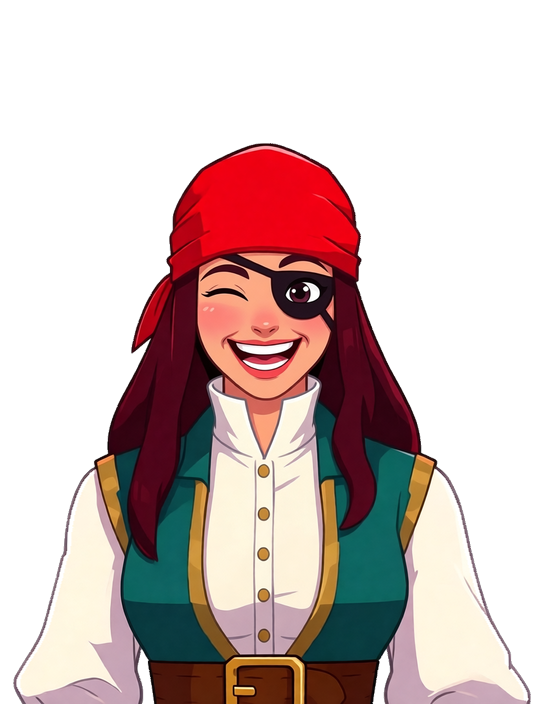
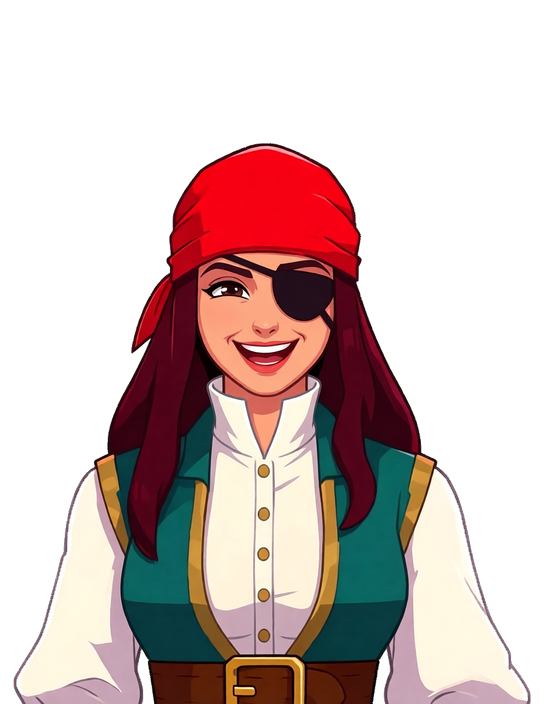
La clase de Cai se congela de verdad, y el boton no cobra lo que regala
Congelar solo la PELEA no bastaba: explicando la finta, el pez se llevaba el
cebo en mitad de la frase que decia como evitarlo. Ahora `leccion_en_curso`
corta el `_process` entero — sombra, fintas y ventana de picada incluidas —
porque la caja se traga todos los toques y cualquier cosa que avance por
debajo es tiempo que el jugador no puede jugar.

Y si aun asi se pierde el pez, la clase NO se corta: se repite el intento
hasta tres veces con Cai encogiendose de hombros. Antes se quedaba ahi y el
jugador no llegaba a aprender la pelea.

El boton dice "Lanzar cana" y esconde la moneda mientras dura la clase: paga
Cai, y el "100" al lado hacia creer que se cobraba la tirada.

ARTE: a la pirata le habian dibujado un ojo por encima del parche en su
expresion feliz.

Changed region(s): [[0.3438, 0.3438, 0.625, 0.5938]]

diff --git a/CLAUDE.md b/CLAUDE.md
@@ -150,11 +150,21 @@ tocar. Era una parrafada seguida con dos focos y luego "ahora tú".
   (`speed_next = 0`) cuando le toca, no antes: el tirón es lo único que no se
   puede explicar sin verlo y en un intento normal de tier 0 puede no salir
   ninguno. Cai avisa ANTES de que empiece.
-· **LA PELEA SE CONGELA MIENTRAS CAI HABLA** (`leccion_en_curso`). La caja de
-  diálogo se traga todos los toques, así que con el pez enganchado el jugador
-  no puede hacer nada mientras lee — y el tirón seguía corriendo: medido con
-  un jugador simulado, la presa se soltaba durante la propia frase que
-  explicaba cómo aguantarla.
+· **MIENTRAS CAI HABLA NO CORRE NADA** (`leccion_en_curso` corta el `_process`
+  entero, no solo la pelea). La caja de diálogo se traga todos los toques, así
+  que cualquier cosa que avance por debajo es tiempo que el jugador no puede
+  jugar: explicando la FINTA, el pez se llevaba el cebo en mitad de la frase
+  que decía cómo evitarlo, y con el pez enganchado la presa se soltaba durante
+  la frase que explicaba cómo aguantarla (las dos, medidas con un jugador
+  simulado). Congelar solo la pelea no bastaba: hay que congelar también la
+  sombra, las fintas y la ventana de la picada.
+· **SI AUN ASÍ SE ESCAPA, LA CLASE NO SE CORTA**: se repite el intento hasta
+  `CLASE_INTENTOS` (3) veces, con Cai encogiéndose de hombros ("Se fue. Pasa.
+  Otra vez."). Antes se quedaba a medias y el jugador no llegaba a aprender la
+  pelea.
+· **El botón dice "Lanzar caña" y ESCONDE LA MONEDA** mientras dura la clase
+  (`_refresh_cast_label` mira `clase`): paga Cai, y enseñar "100" al lado hacía
+  creer que se estaba cobrando la tirada.
 · Al acabar, `CAI_TIRADAS_GRATIS` (3) lanzamientos de regalo.
 **Y SE SIENTA A COMER**: en la Isla de Gades no mira desde la orilla, es un
 CLIENTE con su propio modelo (`cai_rig.glb`, `special_client` del puerto) que
